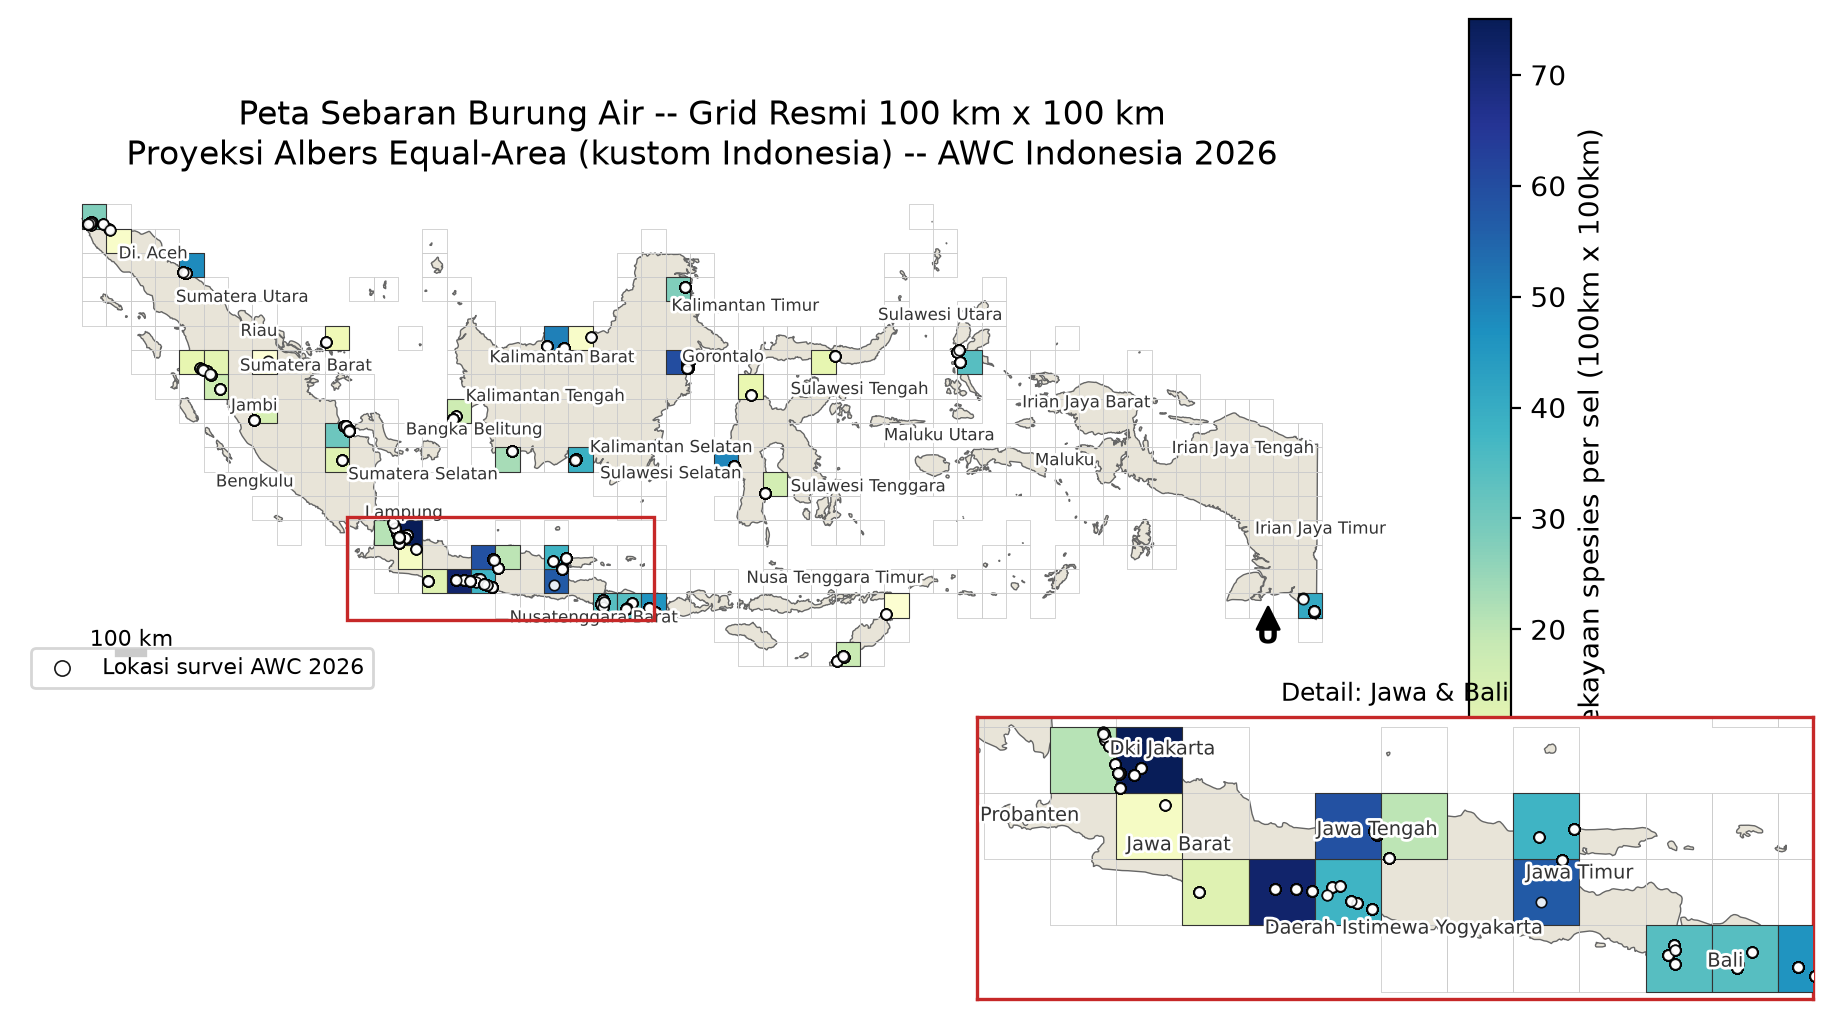
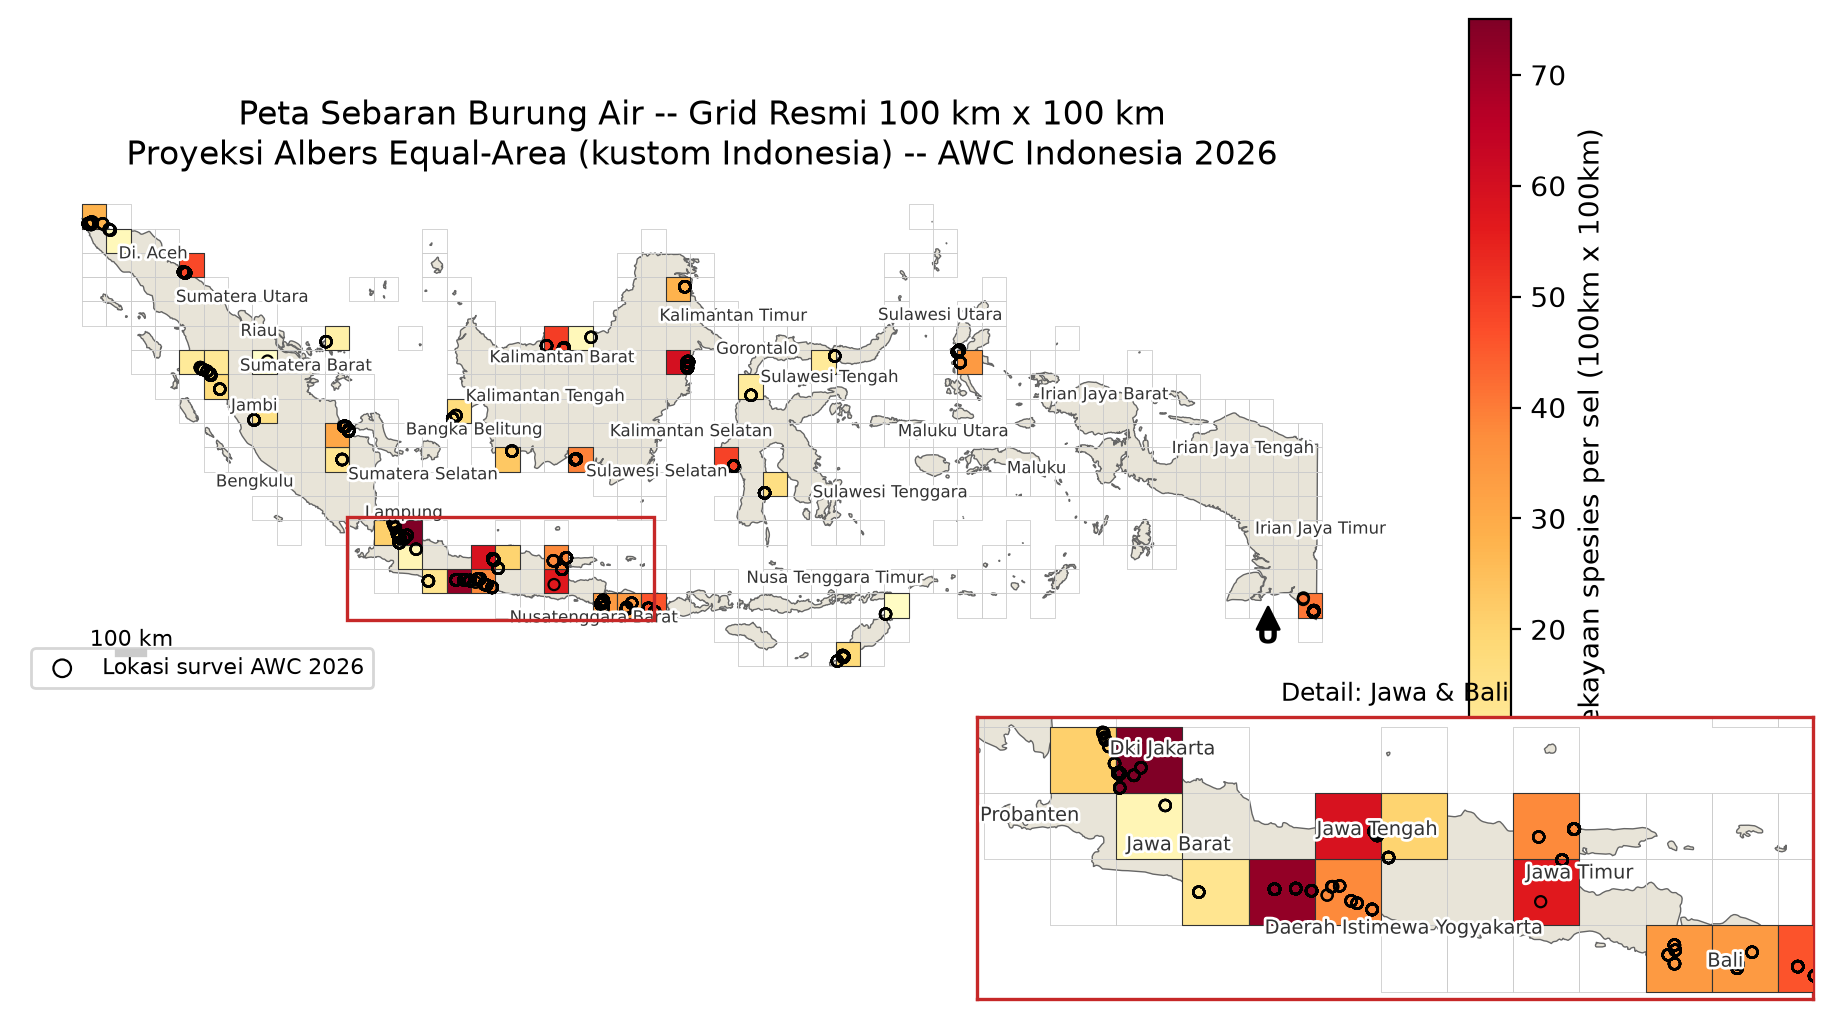
Switch grid colormap to yellow-red and use hollow point markers
Changed cmap from YlGnBu (blue gradient) to YlOrRd (yellow-to-red) per
request. Points are now hollow circles (facecolor=none, black outline)
instead of solid white fill, so the underlying grid cell color always
shows through.

Claude-Session: https://claude.ai/code/session_016Pj44jN6xNgLdKYNy2bYcz

diff --git a/scripts/python/peta_grid_resmi_awc.py b/scripts/python/peta_grid_resmi_awc.py
@@ -116,14 +116,14 @@ def draw_layer(ax, boundary, grid, points, vmax) -> None:
     occupied.plot(
         ax=ax,
         column="kekayaan_spesies",
-        cmap="YlGnBu",
+        cmap="YlOrRd",
         vmin=0,
         vmax=vmax,
         edgecolor="#333333",
         linewidth=0.4,
         zorder=3,
     )
-    points.plot(ax=ax, color="white", edgecolor="black", linewidth=0.6, markersize=14, alpha=0.9, zorder=4)
+    points.plot(ax=ax, facecolor="none", edgecolor="black", linewidth=0.8, markersize=16, zorder=4)
 
 
 def add_labels(ax, provinces: gpd.GeoDataFrame, fontsize: float) -> list:
@@ -156,7 +156,7 @@ def plot_official_map(
 
     draw_layer(ax, boundary, grid, points, vmax)
 
-    sm = plt.cm.ScalarMappable(cmap="YlGnBu", norm=plt.Normalize(vmin=0, vmax=vmax))
+    sm = plt.cm.ScalarMappable(cmap="YlOrRd", norm=plt.Normalize(vmin=0, vmax=vmax))
     cbar = fig.colorbar(sm, ax=ax, shrink=0.6)
     cbar.set_label("Kekayaan spesies per sel (100km x 100km)")
 
@@ -207,7 +207,7 @@ def plot_official_map(
         fontsize=12,
     )
     ax.set_axis_off()
-    ax.scatter([], [], color="white", edgecolor="black", linewidth=0.6, s=30, alpha=0.9, label="Lokasi survei AWC 2026")
+    ax.scatter([], [], facecolor="none", edgecolor="black", linewidth=0.8, s=40, label="Lokasi survei AWC 2026")
     ax.legend(loc="lower left", fontsize=8, bbox_to_anchor=(0.0, -0.02))
 
     # Panel inset: zoom ke Jawa-Bali (provinsi terlalu rapat untuk peta utama).
